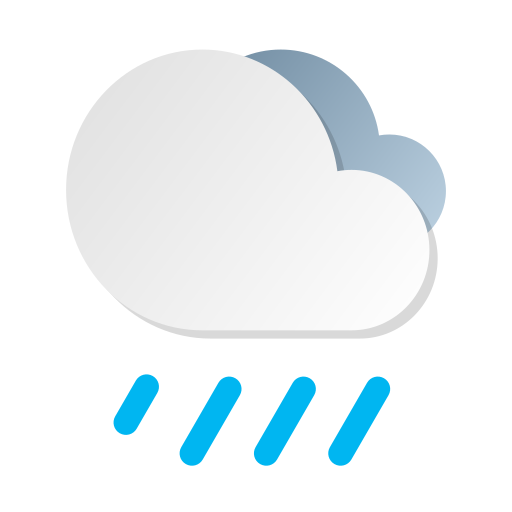
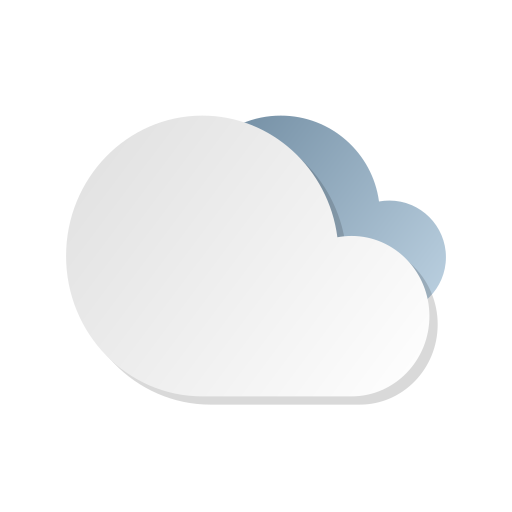
ui-fixes

Changed region(s): [[0.2188, 0.0938, 0.875, 0.9062], [0.125, 0.0938, 0.4062, 0.5625]]

diff --git a/components/WeatherCard.js b/components/WeatherCard.js
@@ -66,8 +66,8 @@ export default function WeatherCard() {
           <WeatherIcon
             src={getWeatherIcon(currentConditions.icon)}
             alt={currentConditions.icon}
-            width={100}
-            height={100}
+            width={95}
+            height={95}
           />
       </Current>
       <Forecast>  
@@ -118,8 +118,8 @@ const Current = styled.div`
 
 const WeatherIcon = styled(Image)`
 position: absolute;
-top: 2px;
-right: 10px;
+top: 4px;
+right: 12px;
 `
 
 
@@ -131,15 +131,12 @@ const Forecast = styled.div`
 
 const Day = styled.p`
     font-size: 16px;
-    /* grid-area: 1 / 1 / 1; */
 `
 
 const Temp = styled.p`
     font-size: 16px;
-    /* grid-area: 1 / 1 / 1; */
 `
 
 const Cond = styled.p`
     font-size: 10px;
-    /* grid-area: 3 / 3 / 3; */
 `

diff --git a/pages/dogs/index.js b/pages/dogs/index.js
@@ -34,8 +34,8 @@ const Dogs = ({ dogs }) => {
         }}
       >
         <ContentWrapper id="content-wrapper">
-          <Header />
           <TopBar theme={theme} toggleTheme={themeToggler} />
+          <Header />
           <CardWrapper>
           <DogList dogs={dogList} onDeleteDog={handleDeleteDog} />
         </CardWrapper>

diff --git a/components/auth/SignOut.js b/components/auth/SignOut.js
@@ -12,6 +12,8 @@ const LogoutButton = styled.button`
   border: none;
   border-radius: 4px;
   cursor: pointer;
+  margin-bottom: 80px;
+
 `;
 
 const SignOut = () => {
